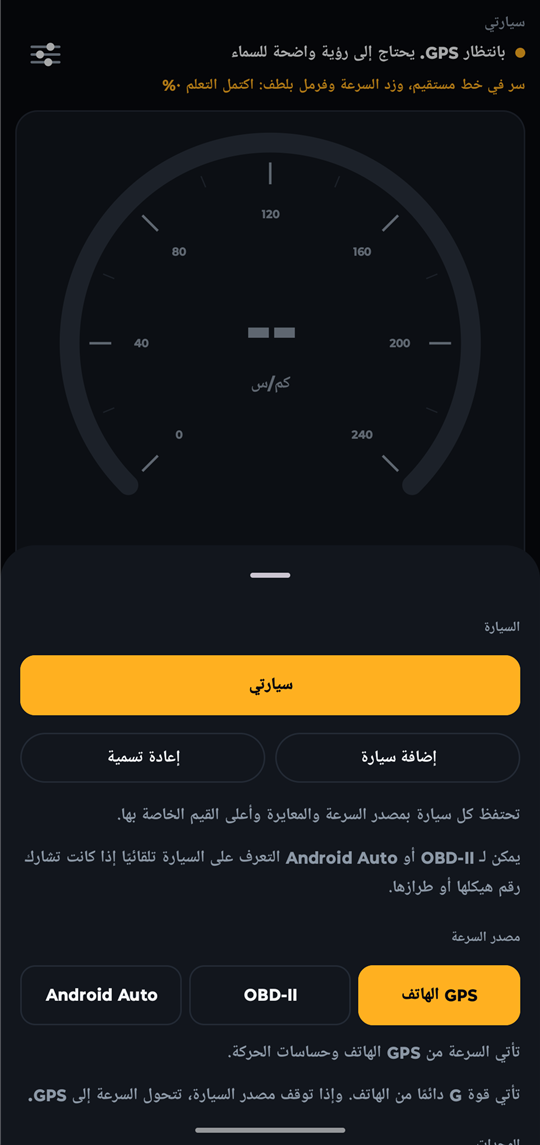
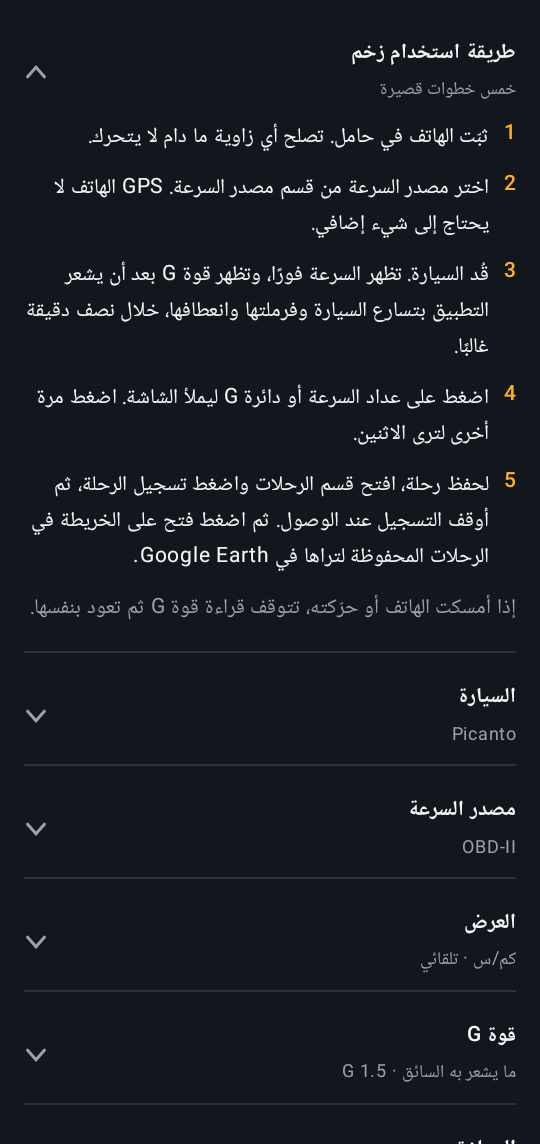
README: new screenshots, settings guide, saved drives and Google Earth

diff --git a/app/src/test/java/app/zakhm/ScreenRenderTest.kt b/app/src/test/java/app/zakhm/ScreenRenderTest.kt
@@ -355,6 +355,51 @@ class ScreenRenderTest {
         compose.onNodeWithText("No drives yet.").assertExists()
     }
 
+    /**
+     * The README's pictures, with sample readings and drives, at 540 x 1145 pixels like
+     * the earlier ones. Saved to `build/screens/readme-*.png` and copied into `docs/images` by hand.
+     */
+    @Test
+    @Config(qualifiers = "w360dp-h763dp-port-hdpi")
+    fun readmeEnglish() = readme("en", AppLanguage.ENGLISH)
+
+    @Test
+    @Config(qualifiers = "ar-w360dp-h763dp-port-hdpi")
+    fun readmeArabic() = readme("ar", AppLanguage.ARABIC)
+
+    private fun readme(name: String, language: AppLanguage) {
+        val shown = settings.copy(gView = GView.DRIVER, gRange = 1.5, language = language)
+        val drives = listOf(
+            SavedTrip(File("a"), TripSummary(1_794_480_000_000, 26 * 60, 18_400.0, 27.8, 0.48)),
+            SavedTrip(File("b"), TripSummary(1_794_390_000_000, 12 * 60, 7_900.0, 19.4, 0.36)),
+            SavedTrip(File("c"), TripSummary(1_794_300_000_000, 74 * 60, 96_200.0, 33.3, 0.52)),
+        )
+        var screen by mutableStateOf(0)
+        compose.setContent {
+            when (screen) {
+                0 -> TelemetryScreen(state(), UpdateState.None, true, shown, actions)
+                else -> DashTheme(CarTheme.DEFAULT) {
+                    Column(
+                        Modifier.fillMaxSize().background(Panel).verticalScroll(rememberScrollState()).padding(16.dp),
+                        verticalArrangement = Arrangement.spacedBy(10.dp),
+                    ) {
+                        if (screen == 1) {
+                            // With the guide open, as a new user would first look at it.
+                            SettingsContent(state().copy(trips = drives), shown, actions, startOpen = "GUIDE")
+                        } else {
+                            TripsSection(drives, useMph = false, onShare = { _, _ -> }, onDelete = {})
+                        }
+                    }
+                }
+            }
+        }
+        save("readme-dashboard-$name")
+        screen = 1
+        save("readme-settings-$name")
+        screen = 2
+        save("readme-drives-$name")
+    }
+
     @Test
     fun badNumbersDoNotCrash() {
         show(state(snapshot = driving.copy(speedMps = Double.NaN, totalG = Double.POSITIVE_INFINITY)))

diff --git a/README.md b/README.md
@@ -39,12 +39,13 @@
 
 <table>
 <tr>
-<td width="50%"><img src="docs/images/dashboard-ar.png" alt="لوحة العدادات بالعربية أثناء انتظار إشارة GPS"><p align="center"><b>لوحة العدادات</b></p></td>
-<td width="50%"><img src="docs/images/settings-ar.png" alt="الإعدادات بالعربية"><p align="center"><b>الإعدادات</b></p></td>
+<td width="33%"><img src="docs/images/dashboard-ar.png" alt="لوحة العدادات بالعربية: السرعة 97 كم/س ودائرة قوة G"><p align="center"><b>لوحة العدادات</b></p></td>
+<td width="33%"><img src="docs/images/settings-ar.png" alt="الإعدادات بالعربية ودليل الاستخدام مفتوح"><p align="center"><b>الإعدادات ودليل الاستخدام</b></p></td>
+<td width="33%"><img src="docs/images/drives-ar.png" alt="الرحلات المحفوظة مع أزرار الفتح على الخريطة والمشاركة"><p align="center"><b>الرحلات المحفوظة</b></p></td>
 </tr>
 </table>
 
-<p align="center"><i>التُقطت الصور داخل مبنى والسيارة متوقفة، لذلك ما زال التطبيق ينتظر إشارة GPS ولا تظهر سرعة.</i></p>
+<p align="center"><i>رُسمت هذه الصور من شاشات التطبيق نفسه بقراءات ورحلات تجريبية.</i></p>
 
 ### المزايا
 
@@ -81,6 +82,10 @@
 <td valign="top"><b>OBD-II أسرع</b><br>طلبات أسرع واتصال Bluetooth LE بأولوية عالية، فتصل قراءات السرعة عدة مرات في الثانية.</td>
 <td valign="top"><b>قطع اتصال OBD-II</b><br>زر في الإعدادات يحرر المحوّل لتطبيق آخر، ثم يعيد الاتصال متى شئت.</td>
 </tr>
+<tr>
+<td valign="top"><b>إعدادات مرتبة</b><br>سبع مجموعات تُفتح واحدة في كل مرة، وتعرض كل مجموعة قيمتها الحالية وهي مغلقة، فتتسع الإعدادات كلها في شاشة واحدة.</td>
+<td valign="top"><b>دليل الاستخدام</b><br>خمس خطوات قصيرة في أعلى الإعدادات تشرح التثبيت ومصدر السرعة والقيادة وملء الشاشة وحفظ الرحلات.</td>
+</tr>
 </table>
 
 ### البدء السريع
@@ -97,9 +102,18 @@
 2. انتظر في الخارج حتى تختفي رسالة GPS.
 3. قُد بشكل طبيعي، فتختفي رسالة المعايرة بعد أن تسرّع ثم تبطئ قليلًا، أو تنعطف يمينًا ويسارًا.
 
-إذا حرّكت الهاتف داخل الحامل، فسيعيد التطبيق المعايرة غالبًا من تلقاء نفسه. ويمكنك أيضًا الضغط على أيقونة الإعدادات ثم **معايرة**.
+إذا حرّكت الهاتف داخل الحامل، فسيعيد التطبيق المعايرة غالبًا من تلقاء نفسه. ويمكنك أيضًا الضغط على أيقونة الإعدادات ثم **الأدوات** ثم **معايرة**.
 
-لتغيير الألوان، افتح الإعدادات ثم **المظهر**.
+لتغيير الألوان، افتح الإعدادات ثم **السيارة** ثم **المظهر**.
+
+**حفظ رحلة وفتحها على الخريطة:**
+
+1. افتح الإعدادات ثم **الرحلات** واضغط **تسجيل الرحلة**، وأبقِ التطبيق مفتوحًا على الشاشة أثناء القيادة.
+2. اضغط **إيقاف التسجيل** عند الوصول، فتظهر الرحلة في **الرحلات المحفوظة**.
+3. اضغط **فتح على الخريطة** لتراها في Google Earth، ويجب أن يكون مثبّتًا على الهاتف. لا يفتح تطبيق خرائط Google هذه الملفات.
+4. لرؤية جدار السرعة، فعّل **جدار السرعة (ثلاثي الأبعاد)** من قائمة الرحلة في Google Earth ثم أمل العرض. وللتحليق مع الرحلة، شغّل **التحليق مع الرحلة**.
+
+يحفظ Google Earth كل رحلة يفتحها، فإذا فتحت الرحلة نفسها مرة ثانية يسألك زخم: فتح Google Earth لتجدها في قائمته، أو إرسال نسخة جديدة. ولإرسال الملف إلى حاسوب أو تطبيق خرائط آخر، استخدم **مشاركة KML** أو **مشاركة GPX**.
 
 ### كيف يعمل
 
@@ -131,6 +145,7 @@ flowchart LR
 - قد يعرض GPS سرعة صغيرة والسيارة واقفة، فتظهر تلك السرعة لبضع ثوانٍ قبل أن يلاحظ التطبيق التوقف. ويستعمل التطبيق اهتزاز السيارة لتصحيح ذلك بعد أن يتعلّم الفرق بوضوح. وفي رحلة مدتها 16 دقيقة، لم يعدّ السيارة واقفة وهي تسير ولا مرة.
 - يحاول التطبيق أيضًا سماع سرعة العجلات التي تبثها بعض السيارات من تلقاء نفسها، ولا يستخدمها إلا بعد مطابقتها لسرعة السيارة. ولم تُسمع في السيارة التي جُرّب عليها.
 - لا يستطيع Android Auto التمييز بين سيارتين من الطراز والسنة نفسيهما. أما OBD-II فيستطيع ذلك إذا كانت السيارة تشارك رقم هيكلها.
+- فُتحت ملفات الرحلات في Google Earth على الويب وعلى هاتف أندرويد. يظهر المسار والعلامات وجدار السرعة على الويب، لكن بطاقات الدفعات القوية لا تُفتح أثناء الجولة هناك. ولم يُجرَّب جدار السرعة ولا الجولة على الهاتف بعد.
 
 <details>
 <summary><b>السرعة من سيارتك</b></summary>
@@ -197,12 +212,13 @@ flowchart LR
 
 <table>
 <tr>
-<td width="50%"><img src="docs/images/dashboard-en.png" alt="The dashboard while waiting for a GPS signal"><p align="center"><b>Dashboard</b></p></td>
-<td width="50%"><img src="docs/images/settings-en.png" alt="The settings panel"><p align="center"><b>Settings</b></p></td>
+<td width="33%"><img src="docs/images/dashboard-en.png" alt="The dashboard: 97 km/h and the G-force circle"><p align="center"><b>Dashboard</b></p></td>
+<td width="33%"><img src="docs/images/settings-en.png" alt="Settings with the how-to guide open"><p align="center"><b>Settings and guide</b></p></td>
+<td width="33%"><img src="docs/images/drives-en.png" alt="Saved drives with Open on map and share buttons"><p align="center"><b>Saved drives</b></p></td>
 </tr>
 </table>
 
-<p align="center"><i>Screenshots were taken indoors while parked, so the app is still waiting for a GPS signal and no speed is shown.</i></p>
+<p align="center"><i>These pictures are drawn from the app's own screens with sample readings and drives.</i></p>
 
 ### Features
 
@@ -239,6 +255,10 @@ flowchart LR
 <td valign="top"><b>Faster OBD-II</b><br>Quicker requests and a high-priority Bluetooth LE link, so car speed arrives several times a second.</td>
 <td valign="top"><b>Disconnect OBD-II</b><br>A settings button frees the adapter for another app, then connects again when you want.</td>
 </tr>
+<tr>
+<td valign="top"><b>Tidy settings</b><br>Seven groups that open one at a time, each showing its current value while closed, so all of settings fits on one screen.</td>
+<td valign="top"><b>How-to guide</b><br>Five short steps at the top of settings: mounting, speed source, driving, full screen and saving drives.</td>
+</tr>
 </table>
 
 ### Quick start
@@ -255,9 +275,18 @@ flowchart LR
 2. Wait outside until the GPS message clears.
 3. Drive normally. The calibration message clears once you've sped up and slowed down a little, or turned both ways.
 
-If you move the phone in its mount, the app will usually calibrate again by itself. You can also tap the settings icon, then **Calibrate**.
+If you move the phone in its mount, the app will usually calibrate again by itself. You can also tap the settings icon, then **Tools**, then **Calibrate**.
 
-To change the colours, open settings, then **Theme**.
+To change the colours, open settings, then **Car**, then **Theme**.
+
+**Saving a drive and opening it on a map:**
+
+1. Open settings, then **Drives**, and tap **Record drive**. Keep the app open on screen while you drive.
+2. Tap **Stop recording** when you arrive. The drive appears under **Saved drives**.
+3. Tap **Open on map** to see it in Google Earth, which must be installed on the phone. Google Maps can't open these files.
+4. To see the speed wall, turn on **Speed wall (3D)** in the drive's list in Google Earth, then tilt the view. To fly along the drive, play **Fly along the drive**.
+
+Google Earth keeps every drive it opens, so opening the same drive a second time asks whether to open Google Earth and find it in its list, or send a new copy. To send the file to a computer or another map app, use **Share KML** or **Share GPX**.
 
 ### How it works
 
@@ -285,6 +314,7 @@ flowchart LR
 - GPS can report a small speed while the car is standing still, and that speed may show for a few seconds before the app notices the stop. The app uses the car's vibration to correct this once it has clearly learned the difference. On a 16-minute drive, it never took the moving car for parked.
 - The app also listens for the wheel speeds some cars broadcast by themselves, and only uses them after they match the car's speed. They weren't heard on the car it was tried on.
 - Android Auto can't tell two cars of the same model and year apart. OBD-II can, if the car shares its VIN.
+- Drive files were opened in Google Earth on the web and on an Android phone. On the web the path, markers and speed wall show, but the hard-push cards don't open during the tour. The speed wall and tour haven't been tried on the phone yet.
 
 <details>
 <summary><b>Speed from your car</b></summary>
